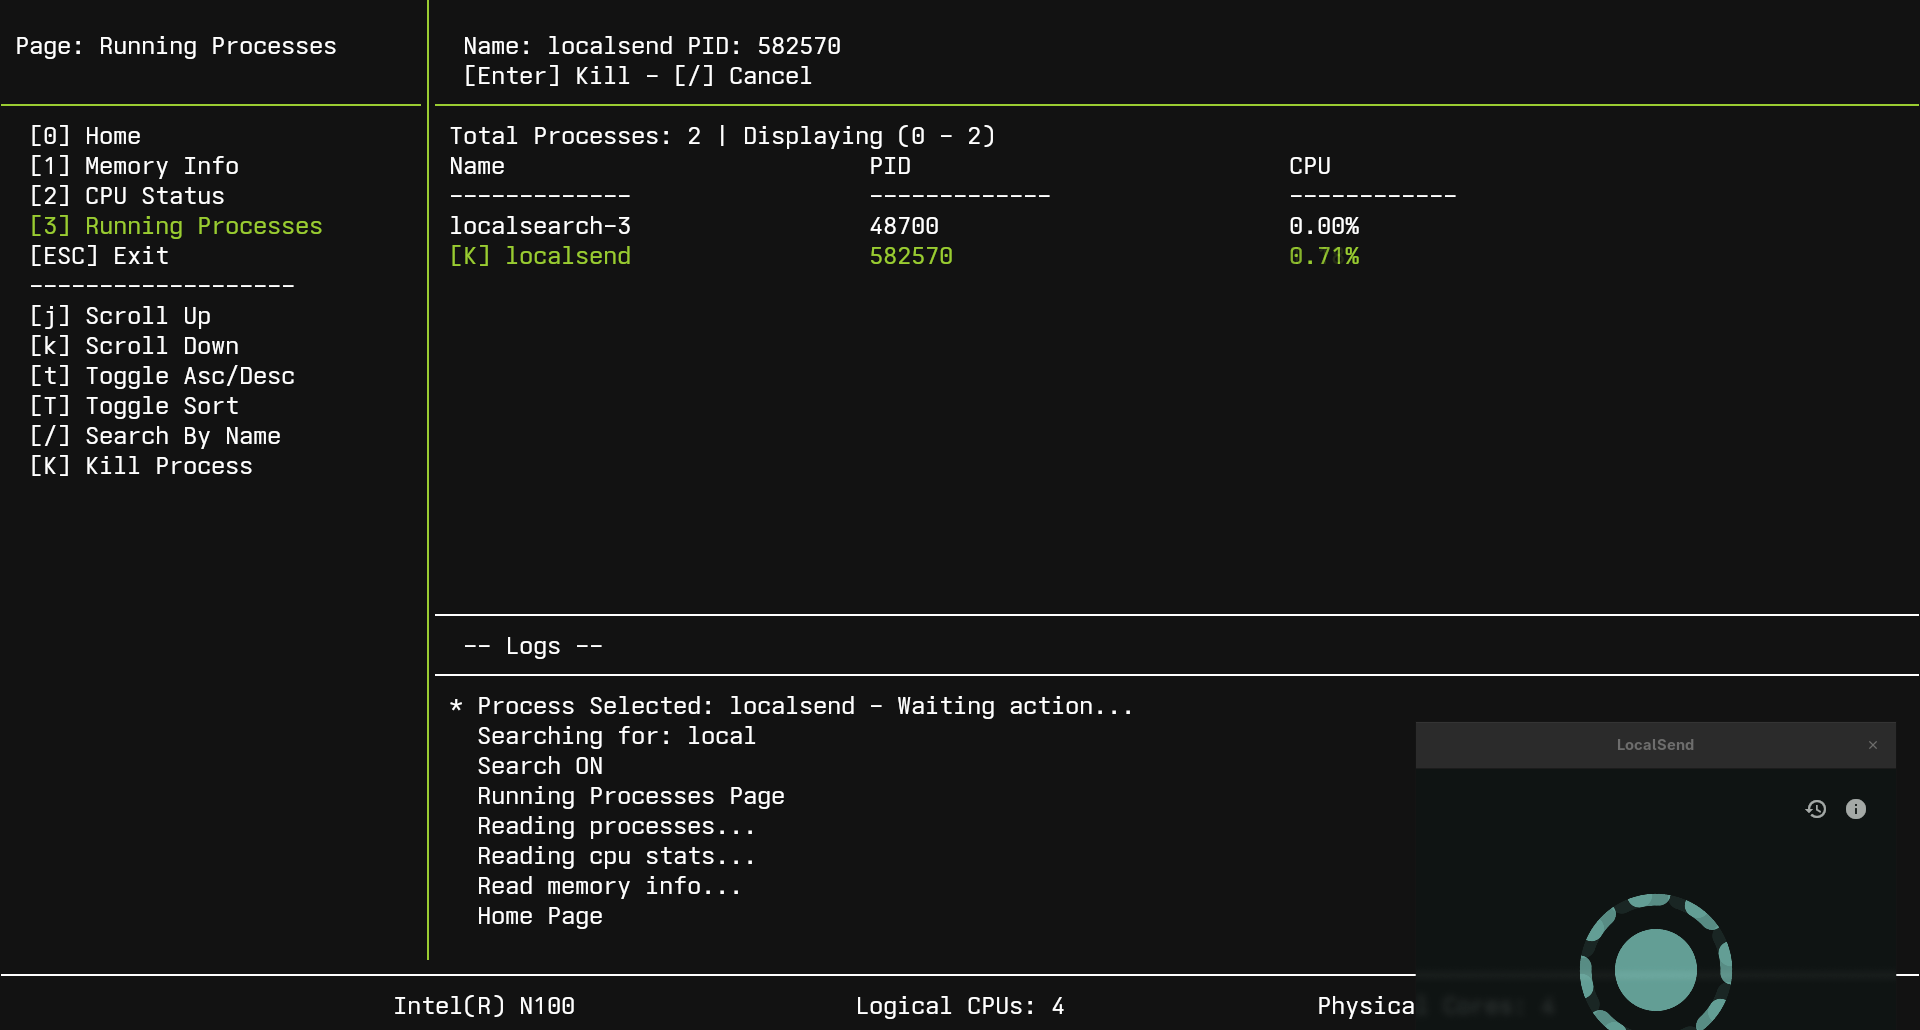
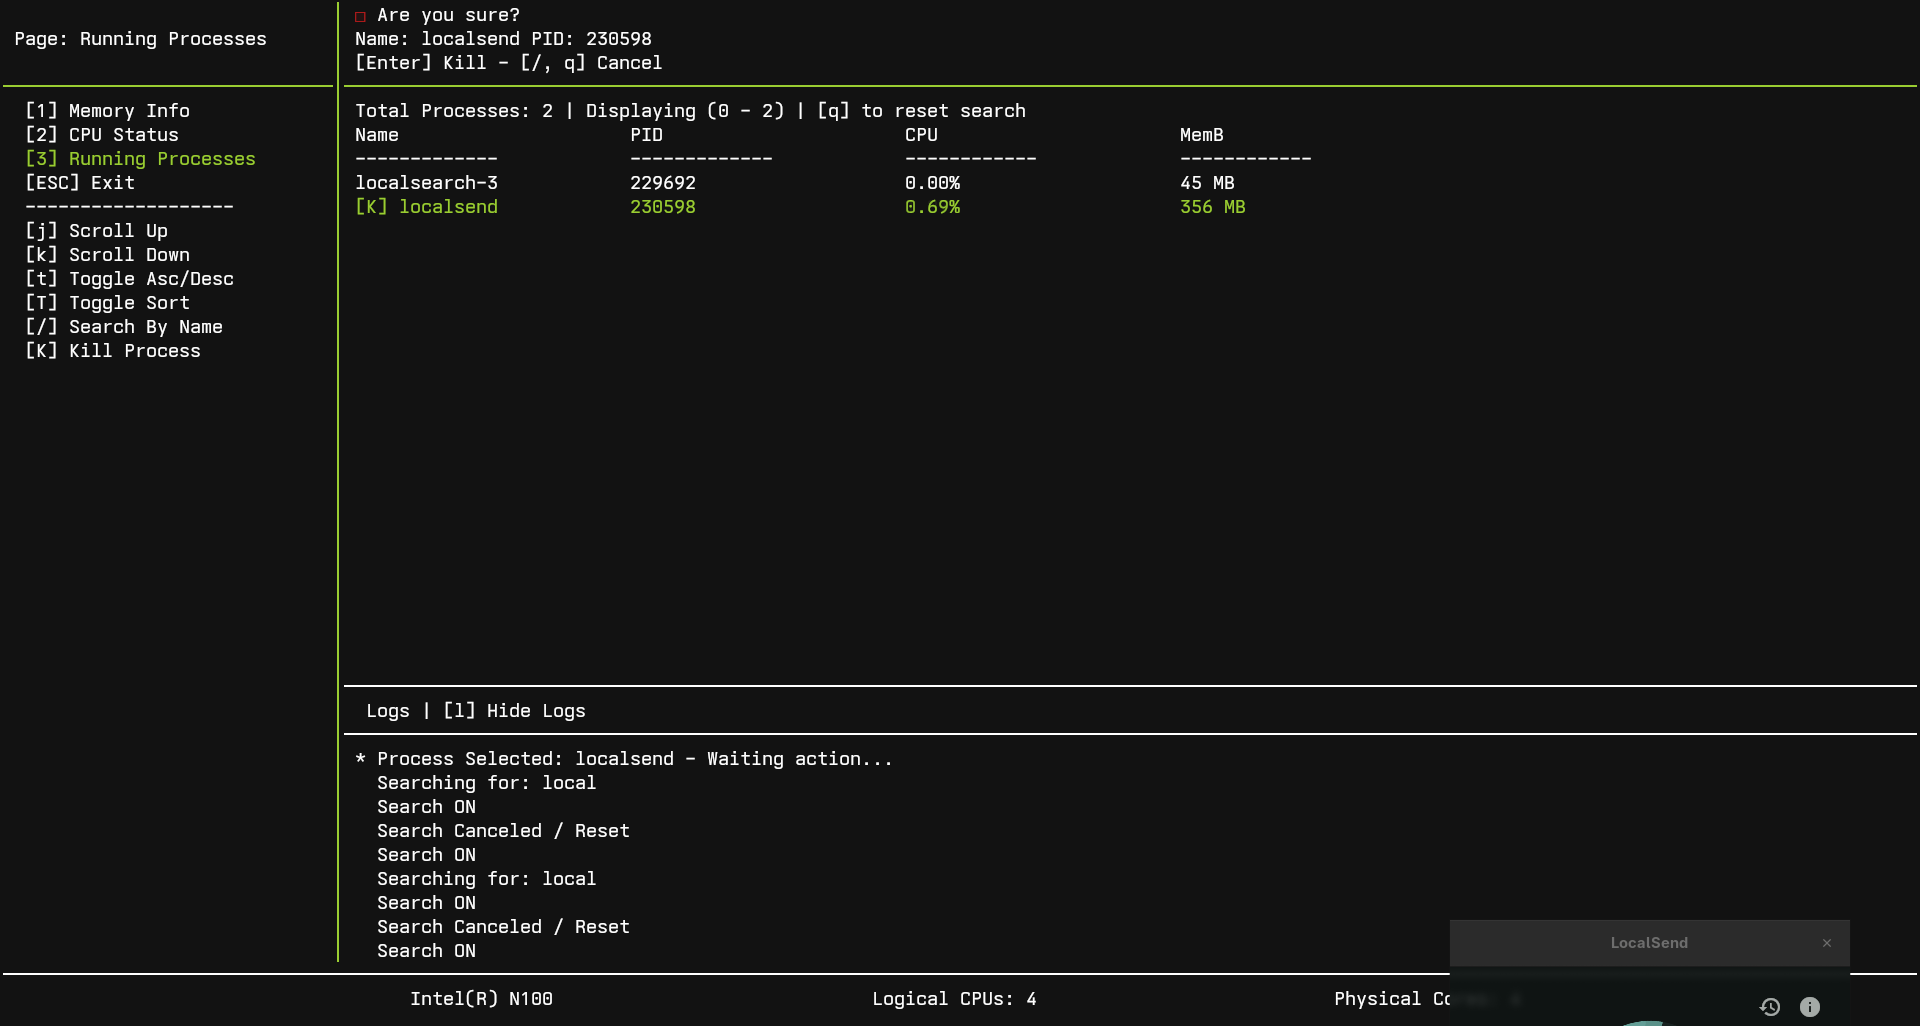
Update README file

diff --git a/README.md b/README.md
@@ -29,11 +29,12 @@ Linux only (uses /proc)
 ![Sysmontui screenshot processes](assets/screenshots/processes.png)
 #### Sorting By (name, pid, cpu usage) and ordering (asc, desc)
 ![Sysmontui screenshot processes sorting 1](assets/screenshots/sort(1).png)
-![Sysmontui screenshot processes sorting 2](assets/screenshots/sort(2).png)
 #### Search processes by name
 ![Sysmontui screenshot search](assets/screenshots/search.png)
 #### Kill process - sending SIGTERM
 ![Sysmontui screenshot sigterm](assets/screenshots/sigterm.png)
+#### Show | Hide Logs View
+![Sysmontui Logs Tab](assets/screenshots/logs.png)
 
 ## Installation
 
@@ -51,9 +52,6 @@ go build -o build/sysmontui cmd/sysmontui/main.go
 ```bash
 go install github.com/omar0ali/sysmontui/cmd/sysmontui@latest
 ```
-
-### Status
-Work in progress
 
 ## Third-Party Licenses
 This project uses [tcell](https://github.com/gdamore/tcell) (Apache License 2.0):
